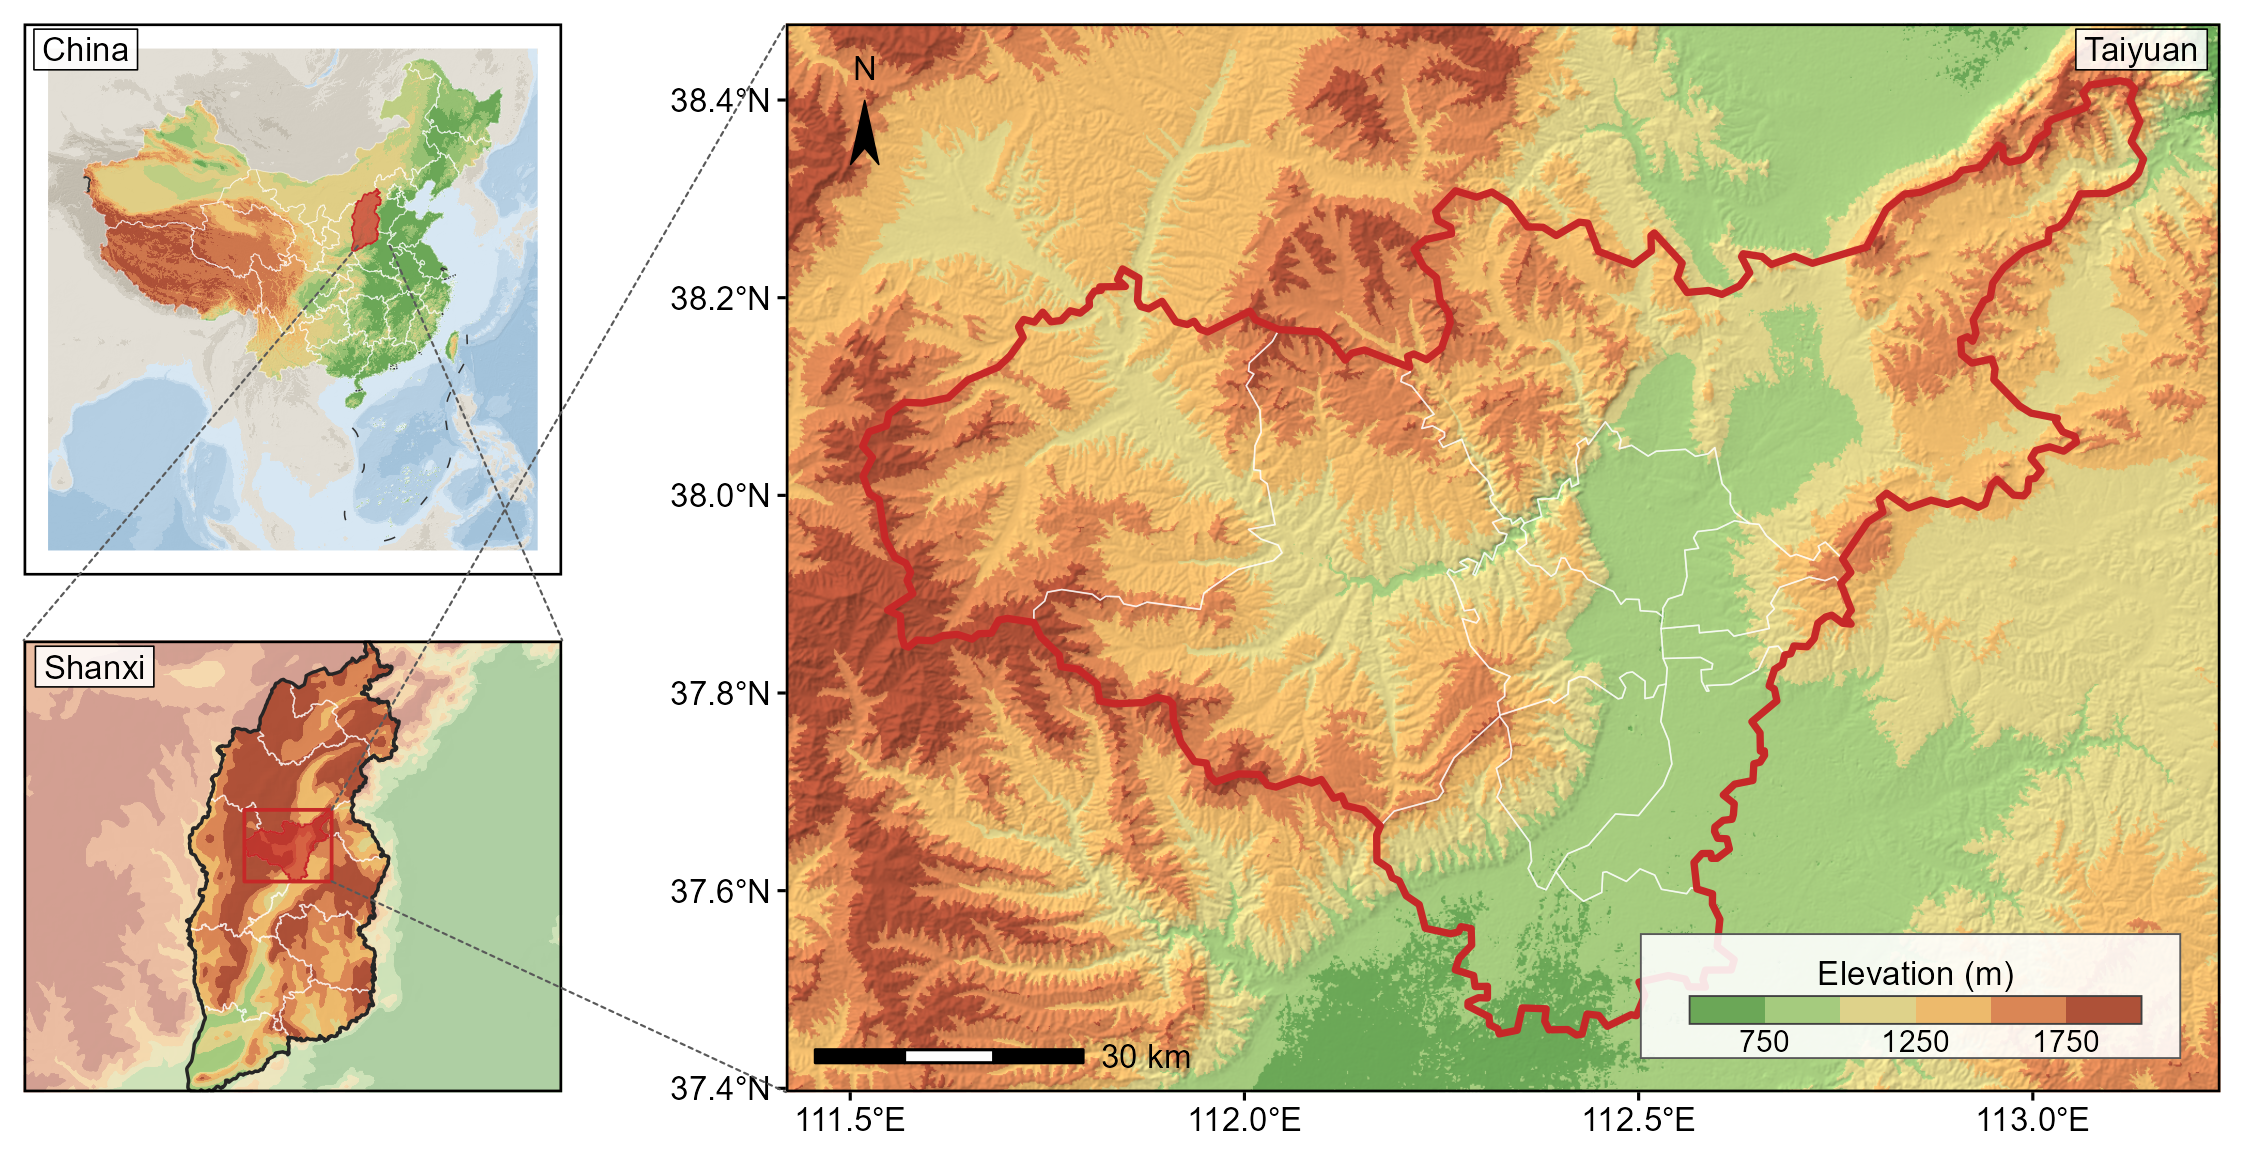
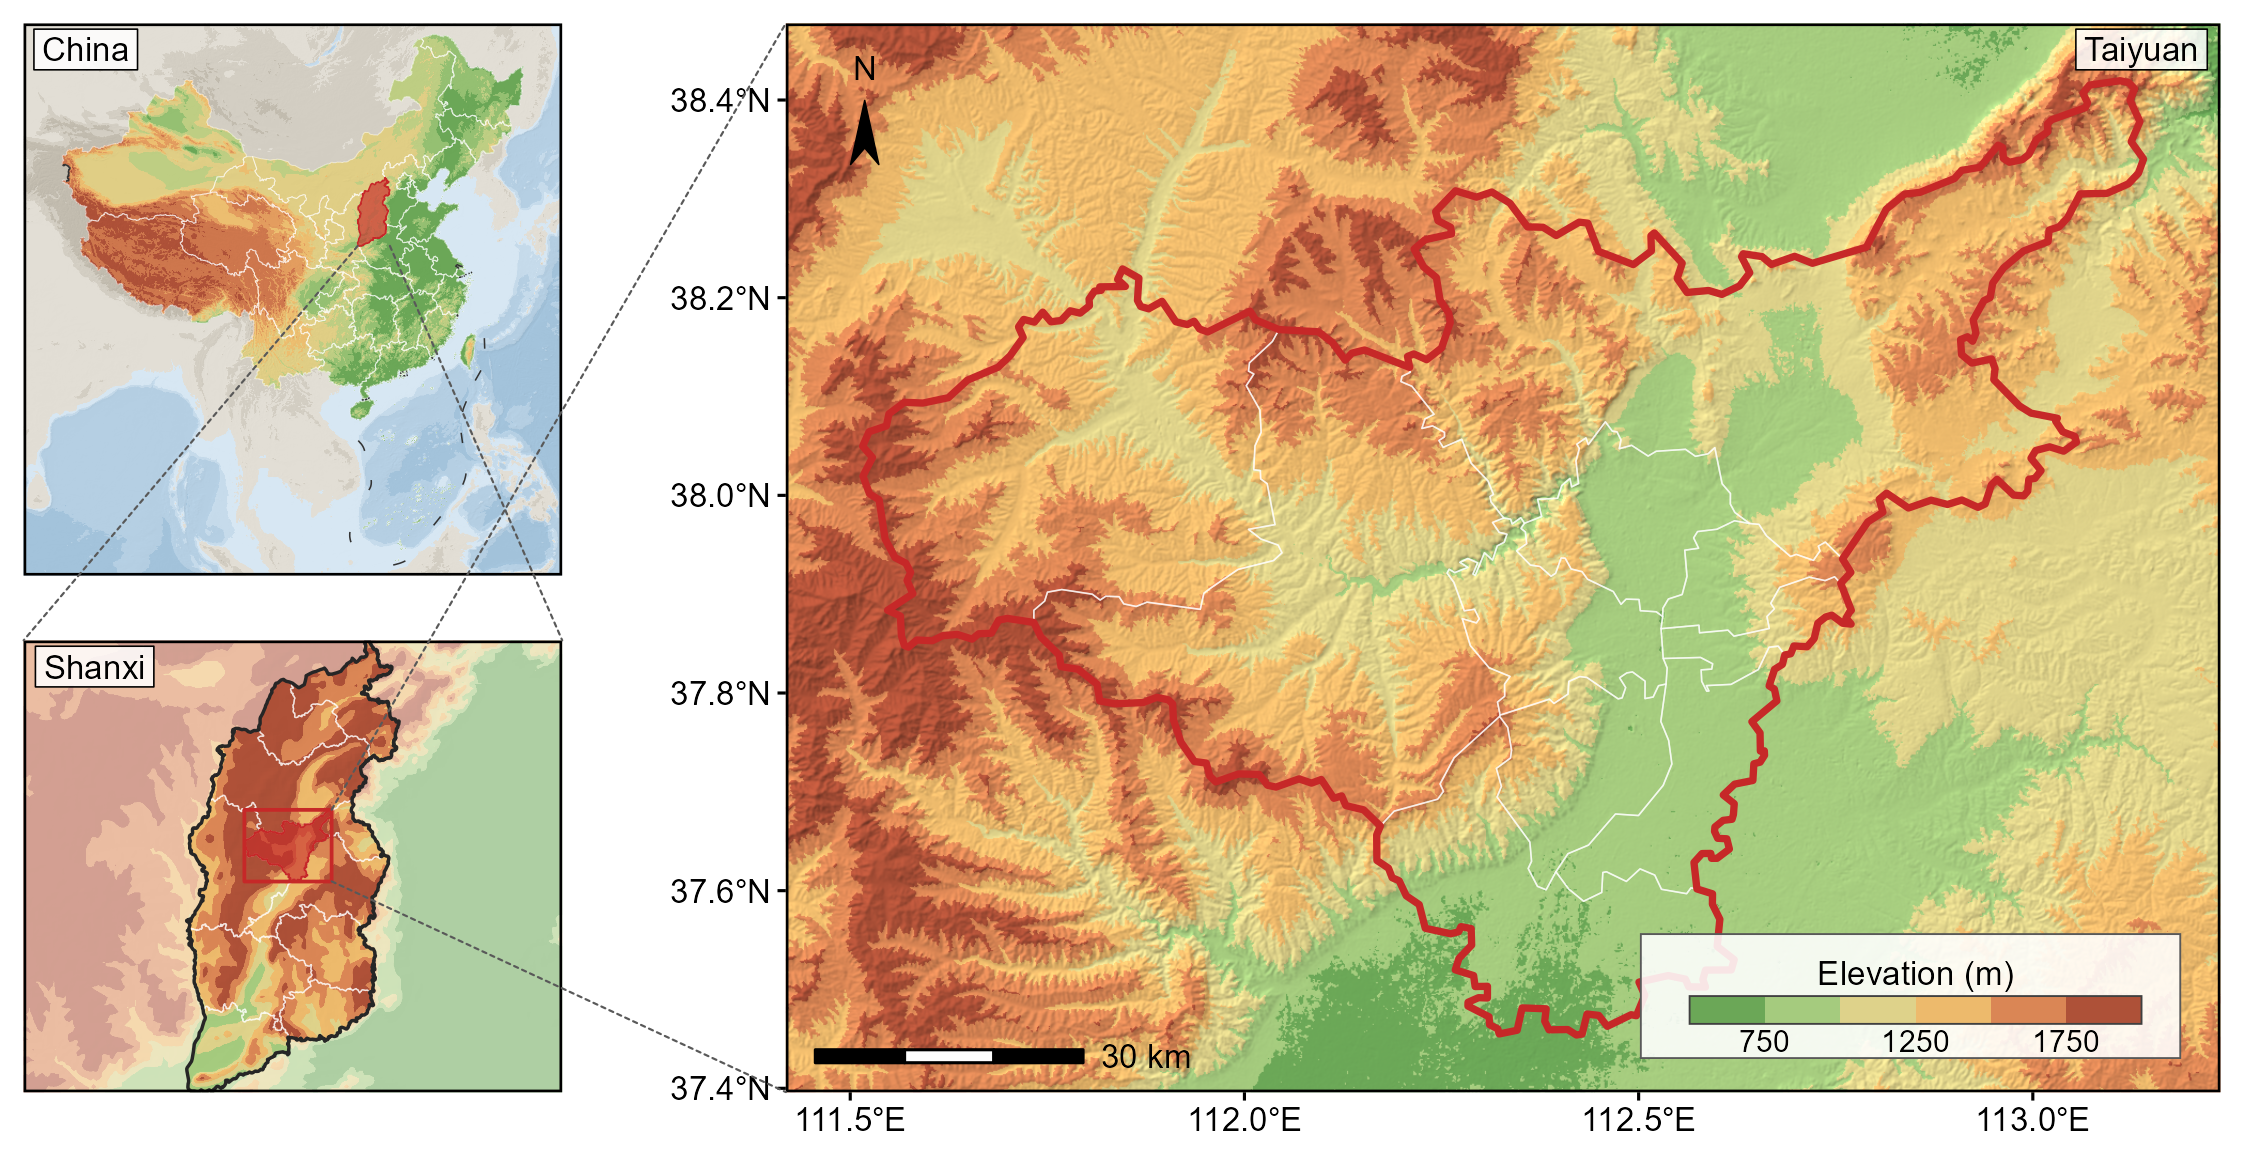
修 coord_sf 被 geom_sf 顶掉导致面板退回数据全域
症状是中国面板下方约 30% 纯白。逐层二分后定位到根因：geom_sf() 返回的不是一个
图层，而是「图层 + 一个默认 coord_sf()」的列表，而任何 coord 加进去都会替换已有的。
所以只要有一个 geom_sf() 排在 coord_sf(xlim=, ylim=) 之后，设好的窗口就被丢掉，
面板退回数据全域，长宽比随之与槽位不符而被信箱化。

最小复现（ggplot2 4.0.3）：
  geom_sf + coord_sf(xlim=c(2,4), ylim=c(2,4))              -> 2..4
  geom_sf + coord_sf(xlim=c(2,4), ylim=c(2,4)) + geom_sf    -> -0.5..10.5

三级示例的 cn_layers() 把 coord_sf 放在图层列表里，后面又接了 geom_sf(sx_c)，正好
踩中。改为 coord_sf 一律最后加，并新增 assert_window() 比对 ggplot_build 的实际
面板范围与目标窗口，两个示例的每个面板都加了这道断言。

图廓件：定位面板的 plot.margin 归零，槽位账目与 grob 尺寸一致。

Changed region(s): [[0.0, 0.0, 0.2496, 0.4948]]

diff --git a/SKILL.md b/SKILL.md
@@ -75,6 +75,26 @@ clip <- sf::st_as_sfc(sf::st_bbox(W, crs = sf::st_crs(prov)))
 stopifnot(all(lengths(sf::st_within(sf::st_geometry(prov), clip)) > 0))
 ```
 
+### coord_sf() goes last, and prove it
+
+`geom_sf()` does not return a layer. It returns a list containing the layer **and a default `coord_sf()`**, and adding any coord replaces the one already on the plot. So a single `geom_sf()` placed after your `coord_sf(xlim =, ylim =)` throws the limits away and the panel silently falls back to the data extent.
+
+```r
+rng <- function(p) { bp <- ggplot_build(p)$layout$panel_params[[1]]
+                     c(bp$x_range, bp$y_range) }
+p <- ggplot() + geom_sf(data = pt) + coord_sf(xlim = c(2, 4), ylim = c(2, 4), expand = FALSE)
+rng(p)                      # 2 4 2 4
+rng(p + geom_sf(data = pt)) # -0.5 10.5 -0.5 10.5
+```
+
+ggplot's only warning is an easily-missed `Adding new coordinate system, which will replace the existing one`, and the figure still looks like a map — just of the wrong extent, at the wrong aspect, letterboxed inside its slot with a band of white where the reader expects data.
+
+Two consequences. Never put `coord_sf()` inside a layer list that a caller might extend — a `map_layers()` helper must return layers only. And check the built plot rather than trusting the code:
+
+```r
+assert_window(p, W)   # compares ggplot_build()'s panel range against the window
+```
+
 ### Fix the slot first, then expand the window
 
 `coord_sf()` enforces a fixed aspect ratio. Drop a map into a layout slot whose shape differs and it letterboxes *inside* that slot: the drawn panel is narrower than its cell, and two side-by-side locator panels end up visibly unequal. Hand-tuned offsets never converge.
@@ -396,6 +416,7 @@ Two things still need explicit syncing because they are computed per figure:
 - `st_bbox()` of a transformed lon/lat rectangle for a country panel — silently amputates the south
 - Taking the window from one layer's bbox when several layers must fit — partial line layers cut whole regions off, and the result still looks like a map
 - Sizing an inset from a corner-bbox aspect ratio instead of the rendered panel ratio
+- A `geom_sf()` added after `coord_sf(xlim =, ylim =)` — the limits are silently discarded and the panel reverts to the data extent
 - Calling `ggplotGrob()` with no font-aware device open
 - A white casing under the accent-coloured boundary: at figure scale the casing blends into the line and it reads pink, not red, and no longer matches its own legend swatch
 - Two line styles on the map, one entry in the legend
